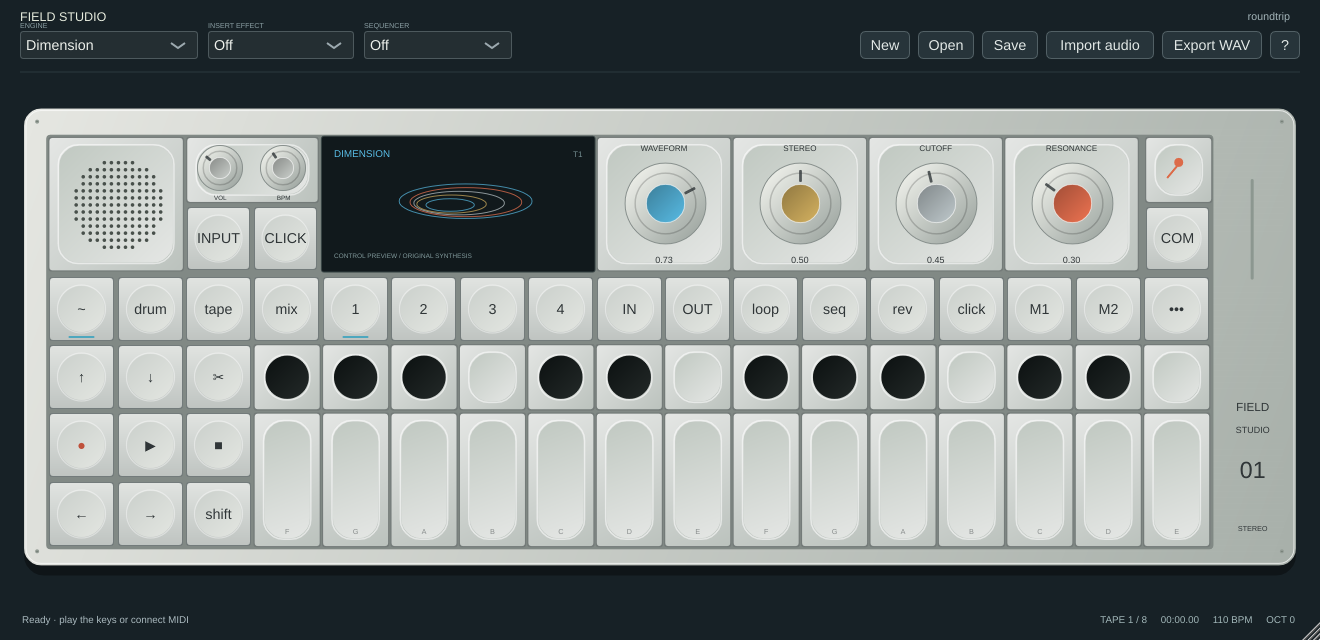
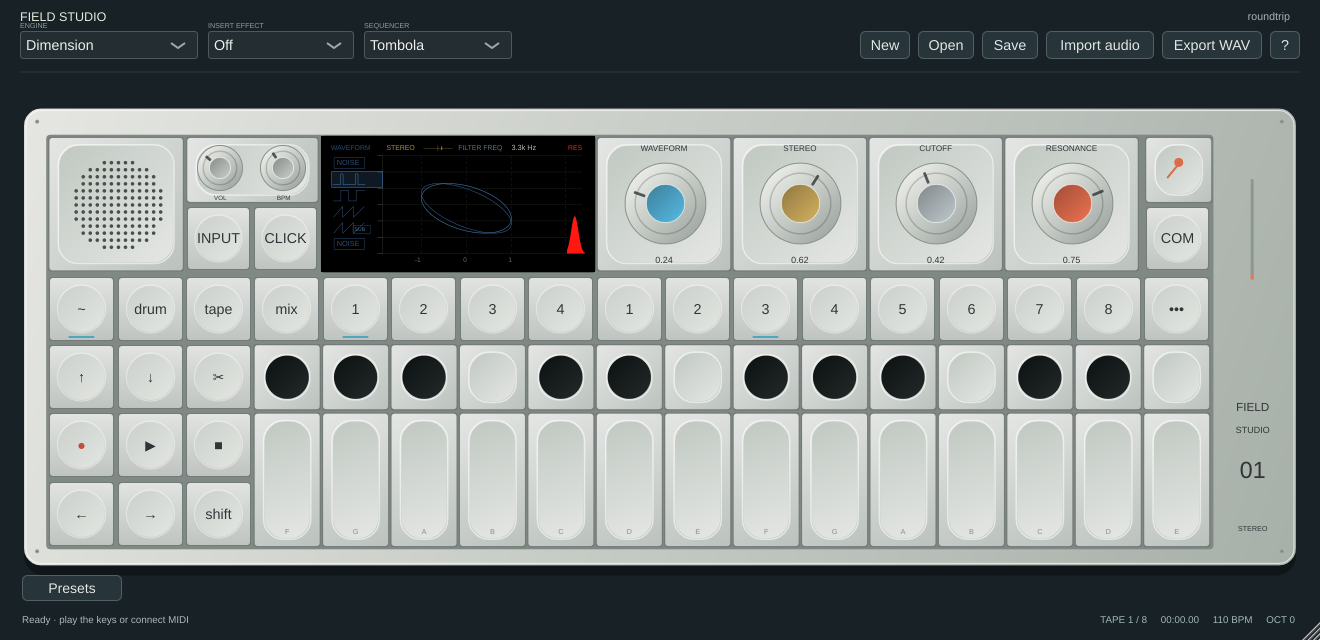
Match Dimension LCD layout to the supplied visual reference

diff --git a/Source/DimensionScreen.cpp b/Source/DimensionScreen.cpp
@@ -1,0 +1,61 @@
+#include "DimensionScreen.h"
+#include <cmath>
+
+namespace field {
+void drawDimensionScreen(juce::Graphics& g,juce::Rectangle<float> bounds,float waveform,float stereo,float cutoff,float resonance,double sampleRate,float phase){
+    juce::Graphics::ScopedSaveState state(g);
+    g.reduceClipRegion(bounds.toNearestInt());
+    g.addTransform(juce::AffineTransform::scale(bounds.getWidth()/604.f,bounds.getHeight()/292.f).translated(bounds.getX(),bounds.getY()));
+    const juce::Colour blue{0xff4476aa},dimBlue{0xff2d4c75},ochre{0xffb68d42},grey{0xffb5bfaf},muted{0xff607582},red{0xffff1810},grid{0xff343229};
+    g.fillAll(juce::Colours::black);
+    auto text=[&](const juce::String& value,juce::Rectangle<float> area,float size,juce::Colour colour,int justification=juce::Justification::centredLeft){g.setColour(colour);g.setFont(juce::Font(juce::FontOptions(size)));g.drawText(value,area,justification,true);};
+    waveform=juce::jlimit(0.f,1.f,waveform);stereo=juce::jlimit(0.f,1.f,stereo);cutoff=juce::jlimit(0.f,1.f,cutoff);resonance=juce::jlimit(0.f,1.f,resonance);
+    text("WAVEFORM",{20,12,114,24},17,dimBlue);
+    text("STEREO",{143,12,80,24},17,ochre);
+    g.setColour(ochre.withAlpha(.5f));g.drawLine(225,25,290,25,1.2f);g.setColour(muted);g.drawLine(257,19,257,31,1);
+    const float marker=225+stereo*65;g.setColour(ochre);g.drawLine(marker,21,marker,29,2);
+    text("FILTER FREQ",{302,12,116,24},17,muted);
+    // Same unmodulated cutoff law as Engine::voice; never hard-code the guide's
+    // example 440–1440 readout as if it were the current hardware response.
+    const float hz=std::min((float)(sampleRate*.4),100.f+cutoff*cutoff*18000.f);
+    text(hz>=1000?juce::String(hz/1000,1)+"k Hz":juce::String(hz,0)+" Hz",{420,12,121,24},18,grey);
+    text("RES",{545,12,45,24},17,red);
+
+    constexpr float left=135,right=540,top=41,bottom=253;
+    g.setColour(grid);for(int line=0;line<7;++line){float y=top+(bottom-top)*line/6;g.drawLine(left,y,577,y,.65f);g.setColour(grey.withAlpha(.6f));g.drawLine(left-12,y,left,y,.8f);g.setColour(grid);}
+    g.setColour(grey.withAlpha(.4f));g.drawLine(left,top,left,bottom,.8f);
+    for(float x:{220.f,320.f,420.f,540.f}){g.setColour(muted.withAlpha(.38f));for(float y=top;y<bottom;y+=12)g.drawLine(x,y,x,juce::jmin(y+7,bottom),.8f);}
+    text("-1",{206,255,30,21},16,muted);text("0",{313,255,22,21},16,muted);text("1",{413,255,22,21},16,muted);
+
+    const int selected=juce::jlimit(0,5,(int)(waveform*5.999f));
+    for(int row=0;row<6;++row){
+        const float y=46+row*35.f;
+        if(row==selected){g.setColour(blue.withAlpha(.21f));g.fillRect(21.f,y-6,114.f,35.f);g.setColour(blue);g.drawRect(21.f,y-6,114.f,35.f,1.2f);}
+        g.setColour(row==selected?blue:dimBlue);
+        if(row==0||row==5){g.drawRoundedRectangle({27,y-1,68,24},2,1.1f);text("NOISE",{33,y-2,64,25},18,row==selected?blue:dimBlue);continue;}
+        juce::Path shape;
+        if(row==1){shape.startNewSubPath(24,y+23);for(int pulse=0;pulse<2;++pulse){float x=41+pulse*33.f;shape.lineTo(x,y+23);shape.lineTo(x,y+1);shape.quadraticTo(x+3,y-3,x+6,y+1);shape.lineTo(x+6,y+23);}shape.lineTo(96,y+23);}
+        else if(row==2){shape.startNewSubPath(24,y+23);shape.lineTo(42,y+23);shape.lineTo(42,y);shape.lineTo(59,y);shape.lineTo(59,y+23);shape.lineTo(76,y+23);shape.lineTo(76,y);shape.lineTo(95,y);}
+        else{shape.startNewSubPath(26,y+23);for(int tooth=0;tooth<3;++tooth){float x=26+tooth*24.f;shape.lineTo(x+20,y);if(tooth<2)shape.lineTo(x+20,y+23);}if(row==4){g.strokePath(shape,juce::PathStrokeType(1.2f));g.drawRoundedRectangle({69,y+6,39,17},2,1);text("SUB",{72,y+5,34,18},13,blue);continue;}}
+        g.strokePath(shape,juce::PathStrokeType(1.2f));
+    }
+    {juce::Graphics::ScopedSaveState clip(g);g.reduceClipRegion(juce::Rectangle<float>(left,top,right-left,bottom-top).toNearestInt());
+        // Smooth, animated XY-style control preview. Width follows Stereo;
+        // waveform selection changes the curve, without claiming a live scope.
+        for(int trace=0;trace<4;++trace){juce::Path path;const float offset=trace*.075f;
+            for(int i=0;i<=360;++i){const float t=i/360.f*juce::MathConstants<float>::twoPi;
+                const float x=320+std::sin(t+offset)*(55+stereo*72);
+                const float y=155+std::sin(t+(trace%2?1.f:-1.f)*(.35f+stereo*1.1f)+offset+selected*.035f+std::sin(phase)*.12f)*(45+stereo*14);
+                if(i==0)path.startNewSubPath(x,y);else path.lineTo(x,y);
+            }
+            g.setColour((trace%2?blue:dimBlue).withAlpha(trace==0?.9f:.65f));g.strokePath(path,juce::PathStrokeType(1.2f));
+        }
+    }
+    // The orange control is visualized using the reference's resonance shape;
+    // the independent audio engine's macro law has not been hardware matched.
+    const float height=12+resonance*92,centre=558+cutoff*5,width=7+resonance*12;
+    juce::Path peak;peak.startNewSubPath(543,bottom);
+    for(int i=0;i<=70;++i){float x=543+i/70.f*40.f;peak.lineTo(x,bottom-height*std::exp(-std::pow((x-centre)/width,2)*2));}
+    peak.lineTo(583,bottom);peak.closeSubPath();g.setColour(red);g.fillPath(peak);
+}
+}

diff --git a/Source/PluginEditor.cpp b/Source/PluginEditor.cpp
@@ -1,4 +1,5 @@
 #include "PluginEditor.h"
+#include "DimensionScreen.h"
 #include <cmath>
 #include <algorithm>
 
@@ -247,6 +248,7 @@ void FieldEditor::drawScreen(juce::Graphics& g){
     juce::Rectangle<float> r(304,38,271,134);g.setColour(juce::Colour(0xff3d4949));g.fillRoundedRectangle(r.expanded(1),3);g.setColour(screenBlack);g.fillRoundedRectangle(r,2);g.saveState();g.reduceClipRegion(r.toNearestInt());
     auto content=r.reduced(12,9);if(presetBrowser){drawPresetBrowser(g,content);g.restoreState();return;}if(mode==2){drawTape(g,content);g.restoreState();return;}if(mode==3){drawMixer(g,content);g.restoreState();return;}if(mode==4){drawSequence(g,content);g.restoreState();return;}
     const int engine=(int)processor.value("engine");
+    if(mode==0&&page==0&&engine==5){field::drawDimensionScreen(g,r,processor.value("macro1"),processor.value("macro2"),processor.value("macro3"),processor.value("macro4"),processor.getSampleRate()>0?processor.getSampleRate():44100.,tick/30.f);g.restoreState();return;}
     juce::String title=mode==1?"DRUM / PAD "+juce::String(selectedPad+1):FieldProcessor::engineNames[juce::jlimit(0,14,engine)].toUpperCase();
     if(page==1)title=mode==1&&engine==14?"DYNAMIC ENVELOPE":shifted&&mode==0&&engine!=13?"PLAY MODE":"ENVELOPE";
     else if(page==2)title=FieldProcessor::effectNames[juce::jlimit(0,FieldProcessor::effectNames.size()-1,(int)processor.value("effect"))].toUpperCase();
@@ -398,7 +400,7 @@ void FieldEditor::drawEngine(juce::Graphics& g,juce::Rectangle<float> a){
         text(g,"ROUTING "+juce::String(topology+1)+" / RATIO CONTROL "+juce::String(n,2),a.withY(a.getBottom()-9).withHeight(9),7,colours[2]);return;
     }
     if(e==9){int count=16+(int)(n*40);for(int i=0;i<count;++i){float u=i/(float)juce::jmax(1,count-1),x=a.getX()+u*a.getWidth(),noise=std::sin(i*12.17f+z*7)*w*5,v=std::sin(u*(8+z*12))*a.getHeight()*(.15f+m*.25f);g.setColour(colours[0]);g.fillEllipse(x-1,a.getCentreY()+v+noise-1,2,2);g.setColour(colours[3]);g.fillEllipse(x-1,a.getCentreY()-v-noise-1,2,2);if(i%3==0){g.setColour(colours[2].withAlpha(.25f+z*.4f));g.drawLine(x,a.getCentreY()-v,x,a.getCentreY()+v,.8f);}}return;}
-    if(e==5){for(int i=0;i<5;++i){float rad=12+i*(3+z*5.f);g.setColour(colours[(size_t)(i%4)].withAlpha(.7f));g.drawEllipse(a.getCentreX()-rad*2+std::sin(i+m*6)*n*17,a.getCentreY()-rad*.7f,rad*4,rad*(.8f+w*.8f),1);}return;}
+    if(e==5){field::drawDimensionScreen(g,a,m,n,z,w,processor.getSampleRate()>0?processor.getSampleRate():44100.,tick/30.f);return;}
     if(e==6){for(int k=0;k<6;++k){juce::Path string;for(int i=0;i<180;++i){float u=i/179.f,x=a.getX()+u*a.getWidth(),y=a.getY()+k*11+std::sin(u*juce::MathConstants<float>::pi)*std::sin(u*(7+m*20+k*(.2f+z*2))+w*3)*8*(.2f+m)*std::exp(-u*(.1f+n*3));if(i==0)string.startNewSubPath(x,y);else string.lineTo(x,y);}g.setColour(colours[(size_t)(k%4)]);g.strokePath(string,juce::PathStrokeType(.8f));}return;}
     if(e==10){for(int k=0;k<2;++k){auto r=juce::Rectangle<float>(a.getX()+k*126,a.getY()+5,114,a.getHeight()-10);g.setColour(colours[(size_t)k].withAlpha(.25f+(k==0?1-m:m)*.65f));g.drawRoundedRectangle(r,3,.8f);juce::Path wave;for(int i=0;i<100;++i){float u=i/99.f,ph=u*(2+n*5)+std::sin(u*15)*w,signal=std::sin(ph*juce::MathConstants<float>::twoPi)*std::exp(-u/(.1f+z*2));float x=r.getX()+u*r.getWidth(),y=r.getCentreY()+signal*r.getHeight()*.35f;if(i==0)wave.startNewSubPath(x,y);else wave.lineTo(x,y);}g.strokePath(wave,juce::PathStrokeType(1.3f));text(g,k==0?"SOURCE A":"SOURCE B",r.withHeight(11),7,colours[(size_t)k]);}return;}
     if(e==12||e==13){

diff --git a/tests/plugin_tests.cpp b/tests/plugin_tests.cpp
@@ -212,6 +212,9 @@ int main(int argc,char** argv){
     shiftForTest(false);p.setValue("engine",13);ui->showPageForTesting(0,1);for(int i=0;i<5;++i)ui->refreshForTesting();for(int i=0;i<4;++i)require(!ui->macroEnabledForTesting(i),"Timer re-enabled continuous Amp envelope");
     p.setValue("engine",0);p.setValue("voiceMode",0);shiftForTest(true);ui->showPageForTesting(0,1);for(int i=0;i<5;++i)ui->refreshForTesting();require(!ui->macroEnabledForTesting(1),"Timer re-enabled polyphonic portamento control");shiftForTest(false);
     auto captureNamed=[&](const juce::String& name){if(argc<=1)return;auto shot=editor->createComponentSnapshot(editor->getLocalBounds());auto file=juce::File::getCurrentWorkingDirectory().getChildFile(argv[1]).getChildFile(name+".png");juce::FileOutputStream stream(file);stream.setPosition(0);stream.truncate();juce::PNGImageFormat format;require(format.writeImageToStream(shot,stream),"Named visual screenshot failed");};
+    p.drumMode=false;p.setValue("engine",5);p.setValue("macro1",.24f);p.setValue("macro2",.62f);p.setValue("macro3",.42f);p.setValue("macro4",.75f);ui->showPageForTesting(0,0);captureNamed("dimension-reference");
+    p.setValue("macro1",0);p.setValue("macro2",0);p.setValue("macro3",0);p.setValue("macro4",0);ui->refreshForTesting();captureNamed("dimension-minimum");
+    p.setValue("macro1",1);p.setValue("macro2",1);p.setValue("macro3",1);p.setValue("macro4",1);ui->refreshForTesting();captureNamed("dimension-maximum");
     p.drumMode=false;p.setValue("engine",10);ui->showPageForTesting(0,0);ui->openPresetBrowserForTesting(6);captureNamed("preset-browser");require(ui->keyPressed(juce::KeyPress(juce::KeyPress::escapeKey)),"Close browser key failed");
     for(int e=0;e<FieldProcessor::engineNames.size();++e){p.setValue("engine",(float)e);for(int page=0;page<4;++page){ui->showPageForTesting(e==14?1:0,page);require(editor->createComponentSnapshot(editor->getLocalBounds()).isValid(),"Engine/module combination did not render");}}
     p.drumMode=false;p.setValue("engine",0);for(int fx=0;fx<FieldProcessor::effectNames.size();++fx){p.setValue("effect",(float)fx);p.setValue("masterEffect",(float)fx);ui->showPageForTesting(0,2);require(editor->createComponentSnapshot(editor->getLocalBounds()).isValid(),"Patch FX did not render");captureNamed("fx-"+juce::String(fx));ui->showPageForTesting(3,2);require(editor->createComponentSnapshot(editor->getLocalBounds()).isValid(),"Master FX did not render");captureNamed("master-fx-"+juce::String(fx));}

diff --git a/Source/DimensionScreen.h b/Source/DimensionScreen.h
@@ -1,0 +1,7 @@
+#pragma once
+#include <juce_gui_basics/juce_gui_basics.h>
+namespace field {
+// Original vector rendering from the supplied Dimension guide screenshot.
+// The XY trace is a control illustration, not sampled output telemetry.
+void drawDimensionScreen(juce::Graphics&,juce::Rectangle<float>,float waveform,float stereo,float cutoff,float resonance,double sampleRate,float phase);
+}

diff --git a/docs/PARITY.md b/docs/PARITY.md
@@ -50,3 +50,7 @@ All four Linux CTest targets pass after the DBox, dedicated sequencers, album an
 T2 synth/melodic-sample ADSR is tested with a constant sample: attack midpoint/peak, decay-to-sustain, sustain hold, release midpoint and silence. Shift+T2 now provides Poly/Mono/Legato/Unison, overlapping mono/legato glide, pitch-bend range and patch gain. Tests verify mono last-key fallback, legato envelope continuity/glide progression, independent poly notes and four-voice detuned unison; project/slot state persists the settings. String now uses fractional-delay pitch handling for bend/glide. Amp remains a continuous-input model; unsupported note-envelope/play-mode controls are disabled there. Exact hardware response curves, mode semantics and visual identity are not established.
 
 Sample import now restores supported OP-1 melodic markers/root pitch and drum-kit regions, tuning, gain/pan/direction and closest available play mode. Legacy mono12-second and stereo20-second marker profiles are explicit; ambiguous long mono kits are rejected rather than scale-guessed. Unsupported fades/routing/FX/LFO/envelope values remain attached, with COM import details. Known modeled synth presets select a software engine but explicitly do not claim original preset-sound reproduction. Unknown engines leave the current sound unchanged. Synthetic end-to-end preset tests and all24 ordinary WAVs in the official Snaps pack import successfully; the pack is not bundled.
+
+## Dimension screen reference pass
+
+The supplied Dimension guide image is now represented by an original full-LCD vector layout: six waveform/noise rows with a selection highlight, blue stereo XY-style curves, axes/grid, ochre stereo-position indicator, filter-frequency readout and red resonance-style peak. The drawing responds to all four existing macro values; XY motion is an animated control illustration, not sampled audio telemetry. Frequency displays the software engine's unmodulated cutoff law, with its sample-rate ceiling, instead of copying the guide's example 440–1440 range. This pass changes rendering only. The software oscillator, filter and macro laws remain original approximations and do not establish hardware waveform selection, stereo modulation or resonance equivalence. Native screenshots cover the reference-like control state and both macro extremes.
